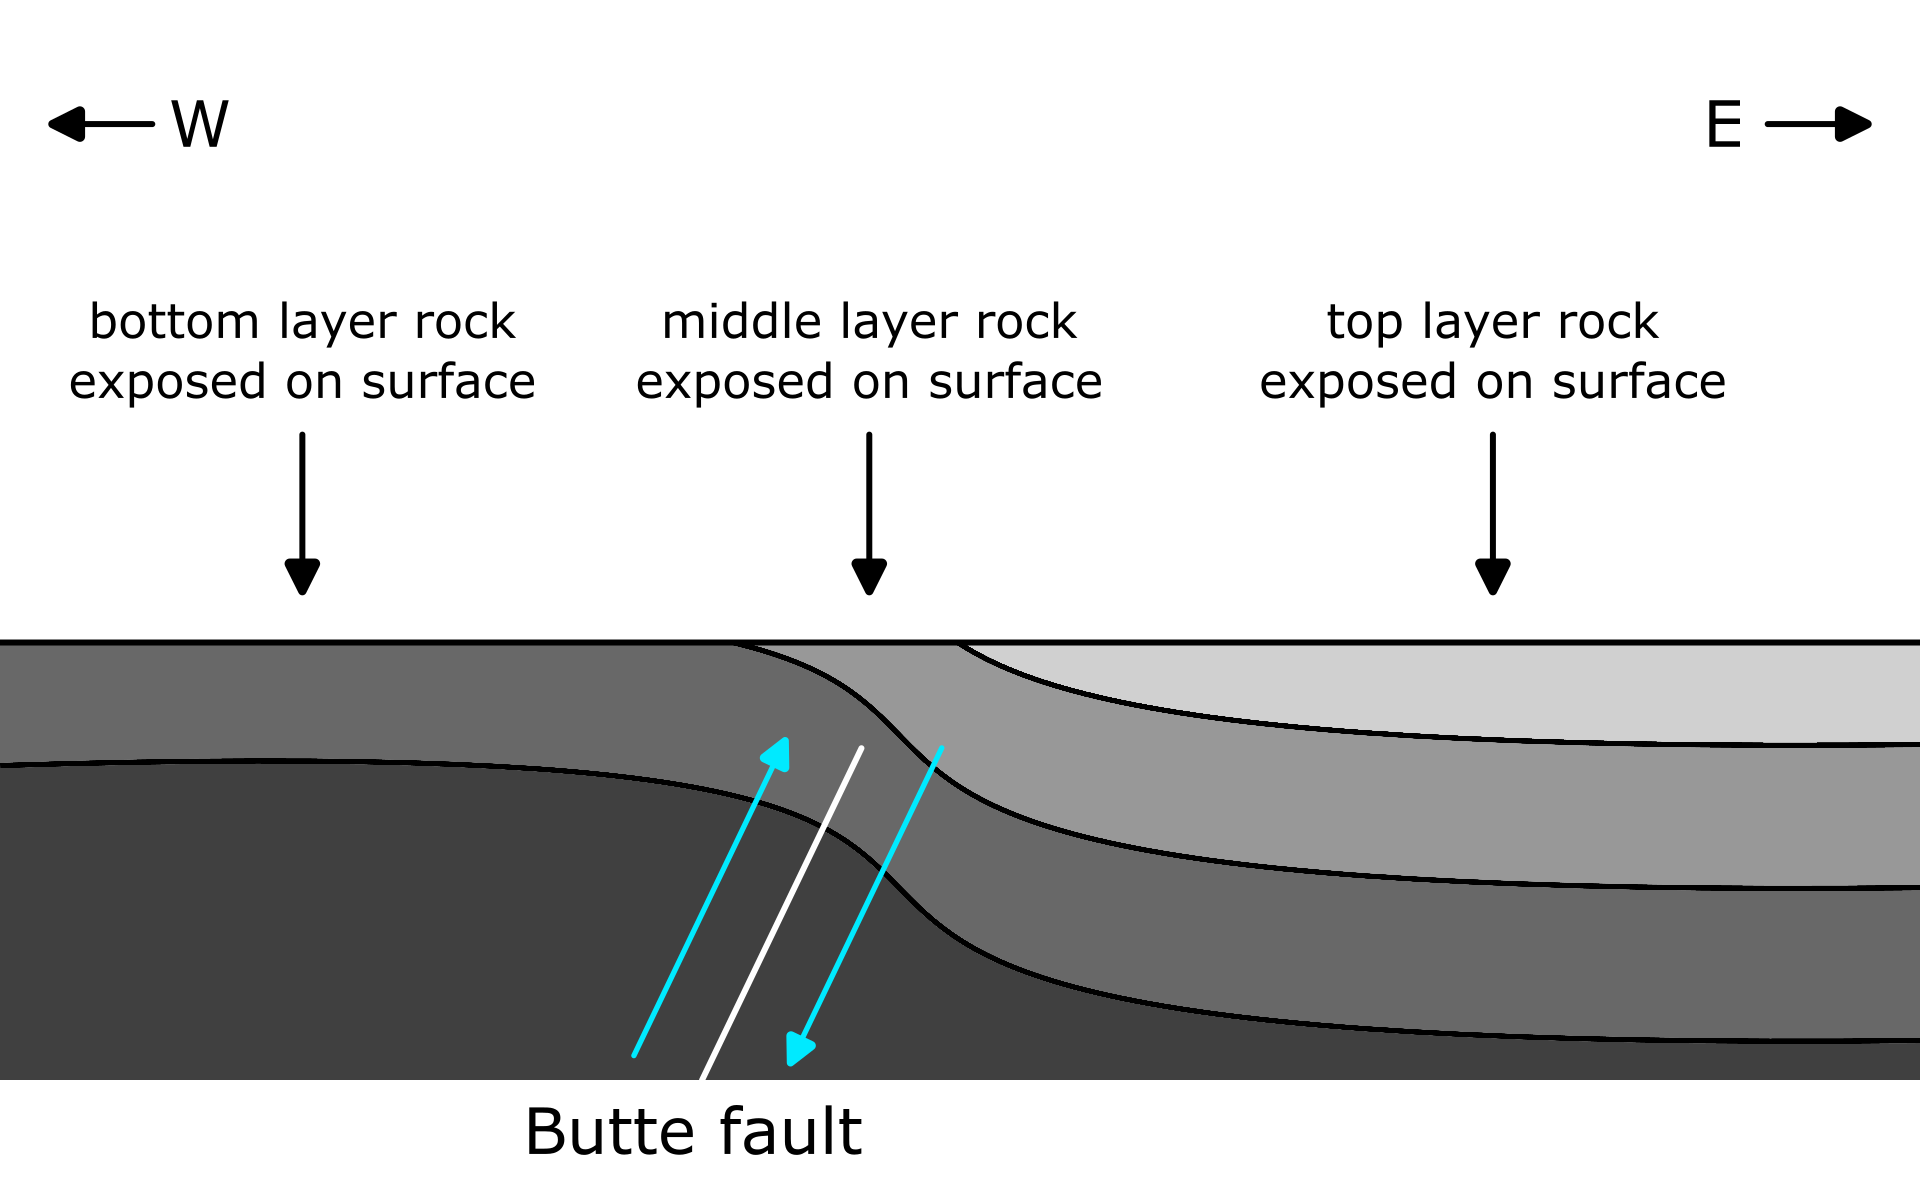
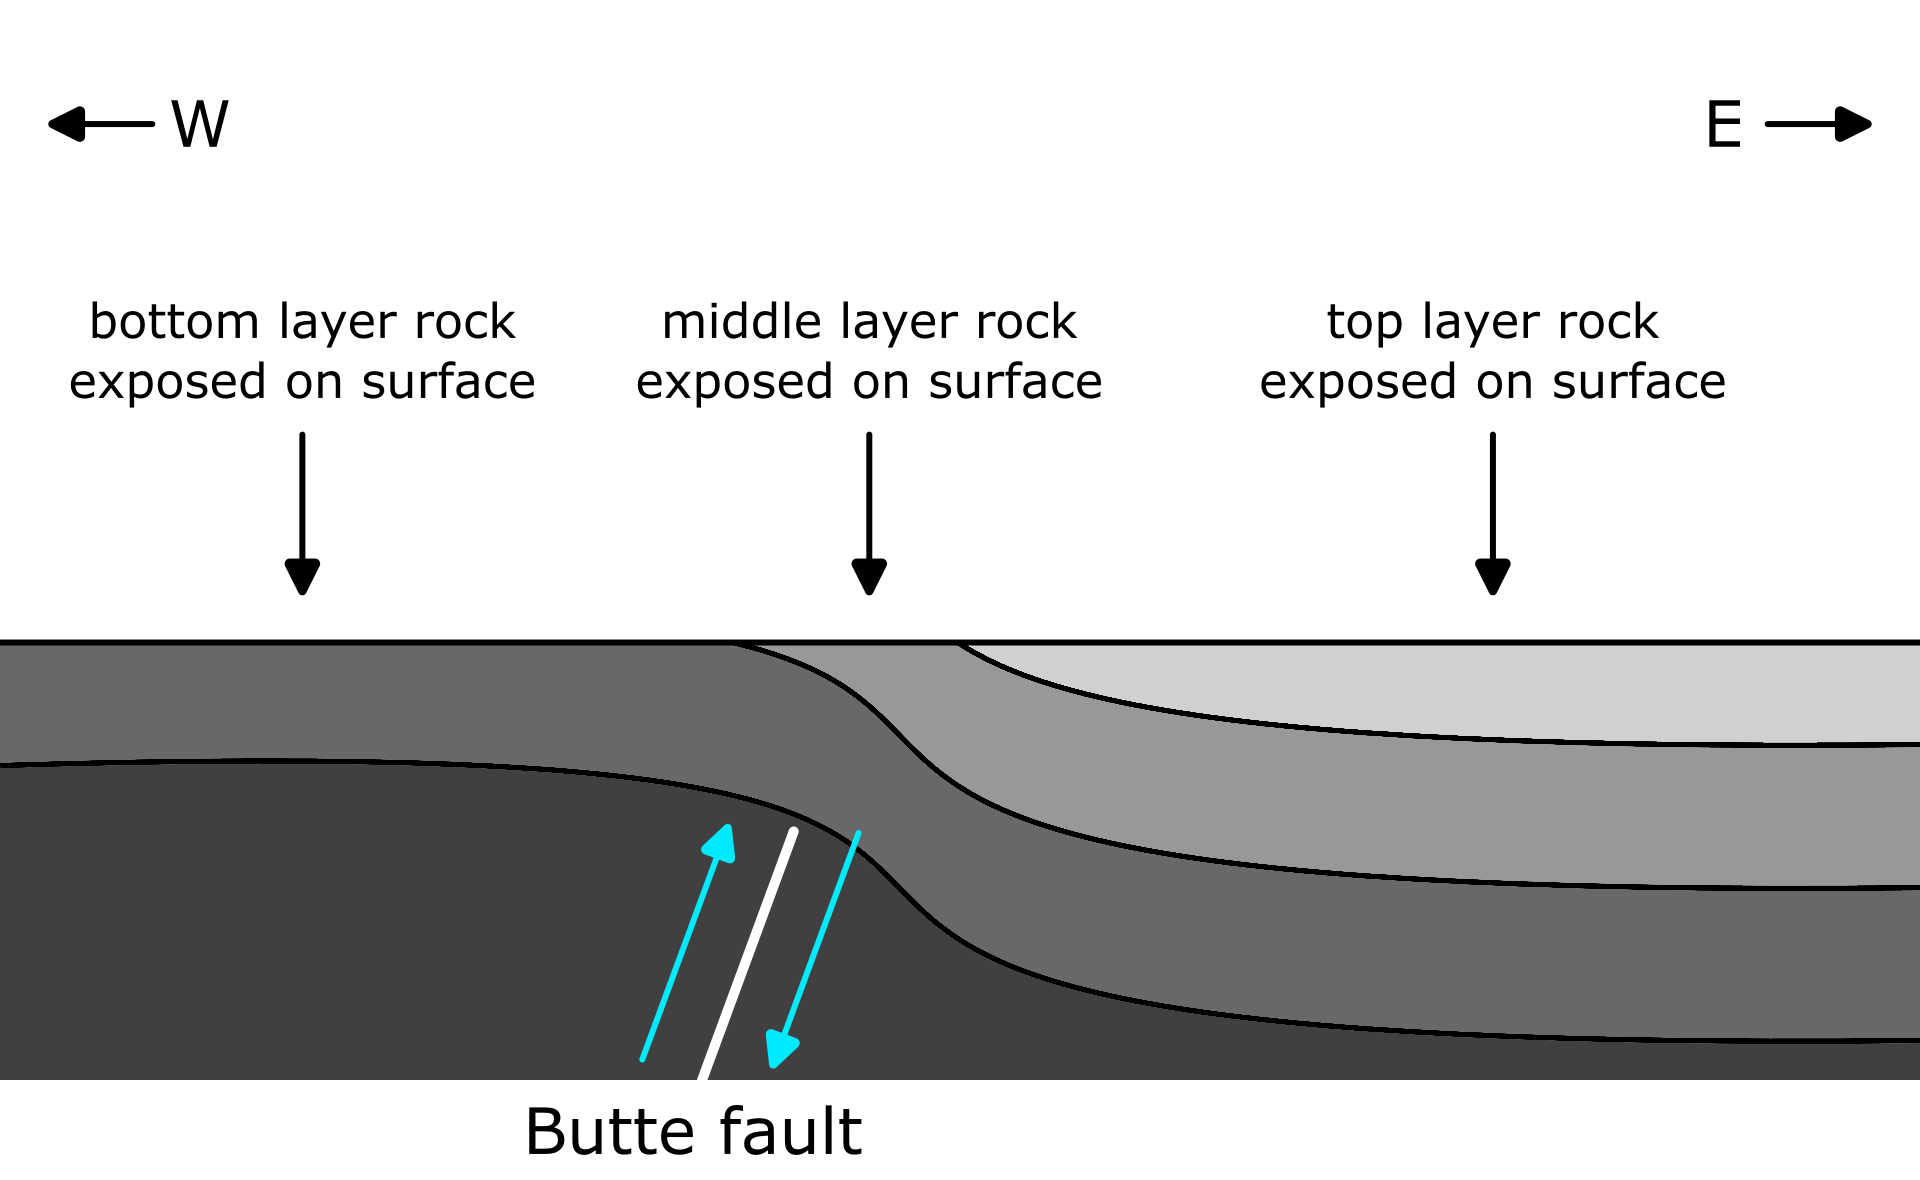
scawwy :3

Changed region(s): [[0.3125, 0.6407, 0.4688, 0.9153], [0.4375, 0.6407, 0.5, 0.7017]]

diff --git a/app/main/templates/main/legal.html b/app/main/templates/main/legal.html
@@ -19,12 +19,12 @@ Legal {{ super() }}
   </div>
   <div>
     <h2 class="post-h2">Copyright</h2>
-    <p>(scawwy ;w;)</p>
+    <p>(scawwy :3)</p>
     <p>Images that I got from somewhere else will either have explicit attribution on the page or licensing information in the alt/title text (which appears if you hover over the image). These will continue to have the same license that I got them under (or be public domain if they were originally public domain).</p>
     <p>Otherwise, for all images created by me (i.e. with no explicit attribution or licensing information on hover), no rights are reserved—they are released under Creative Commons <a href="https://creativecommons.org/publicdomain/zero/1.0/" target="_blank">CC0</a>:</p>
     <blockquote><p>You can copy, modify, distribute and perform the work, even for commercial purposes, all without asking permission.</p></blockquote>
     <p>(This is essentially public domain, except it's apparently more universal across different jurisdictions.)</p>
-    <p>If you want to share large portions of text from a blogpost, just provide a link to my original post—no need to ask permission. Links would also be appreciated for my images, but they are not required :3</p>
+    <p>If you want to share large portions of text from a blogpost, just provide a link to my original post—no need to ask permission. Links would also be appreciated for my images, but they are not required :D</p>
   </div>
   <div>
     <h2 class="post-h2">Contact me</h2>
